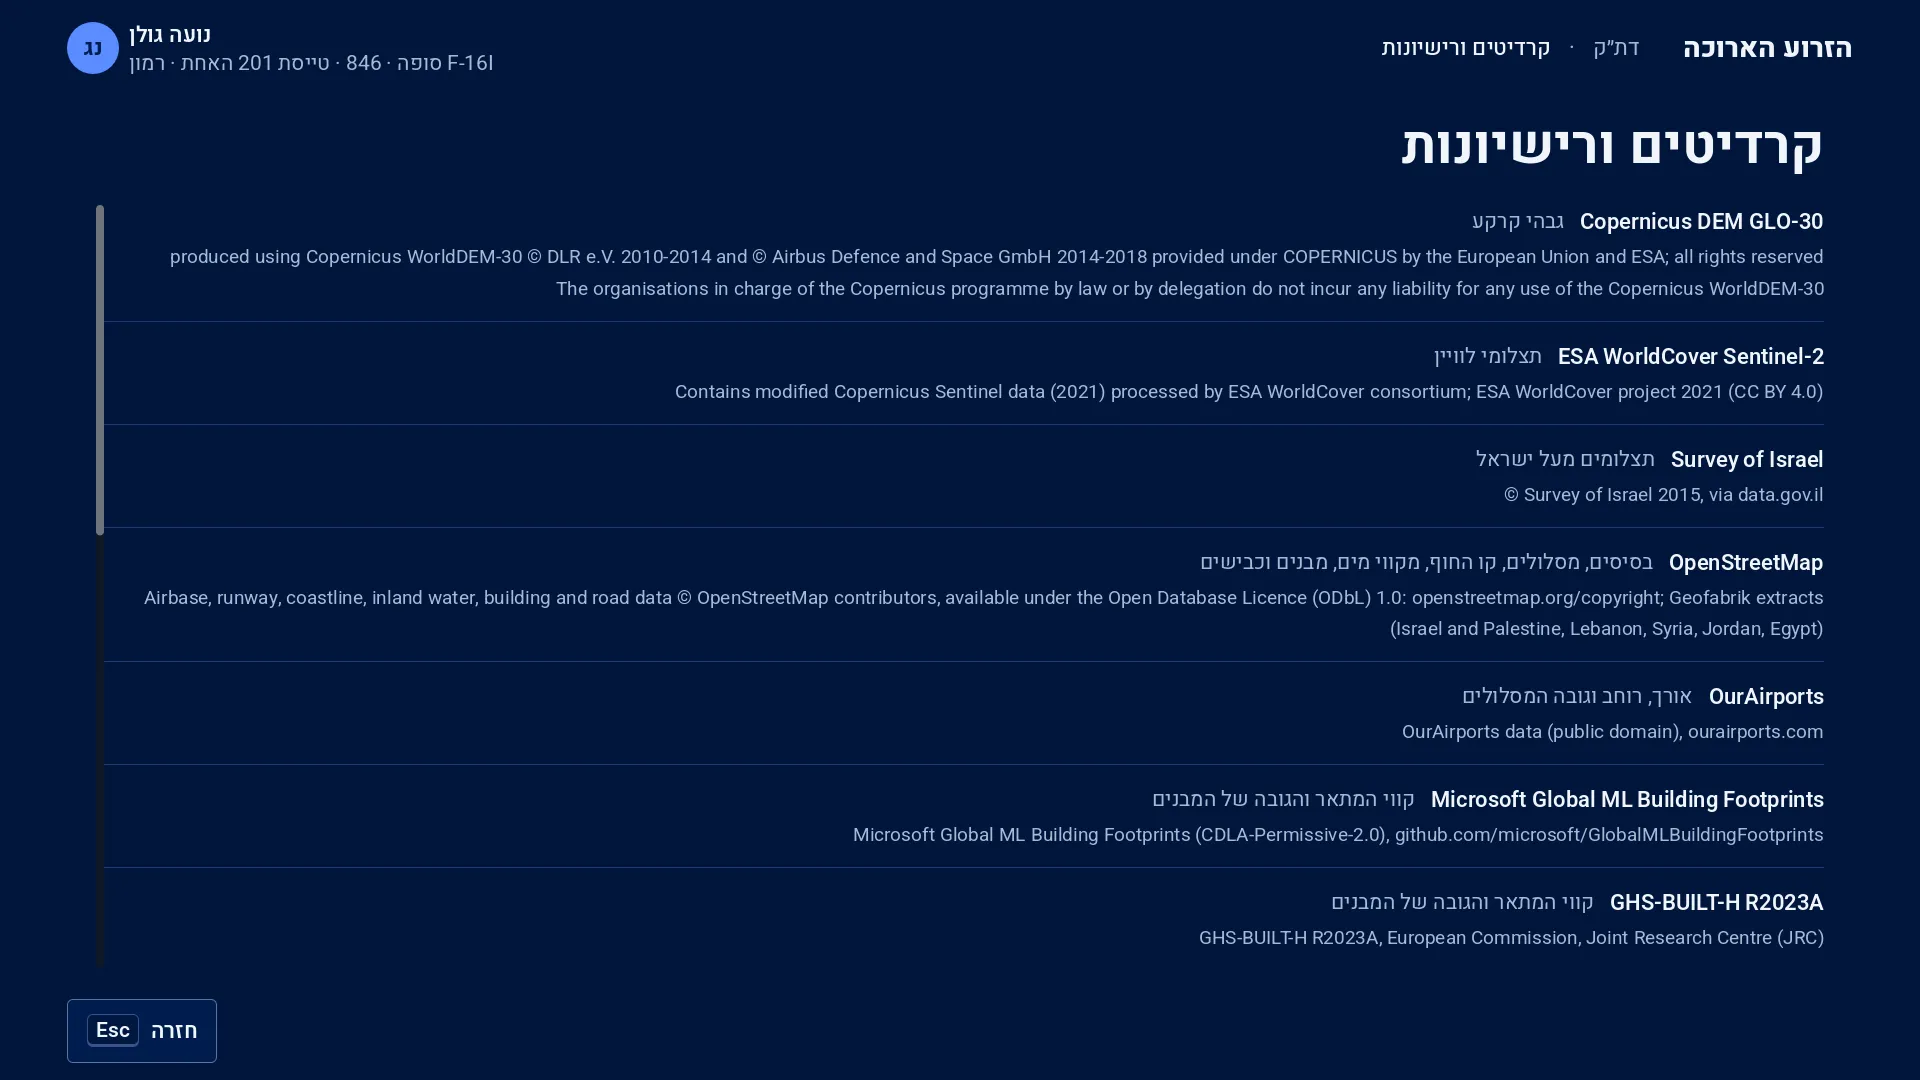
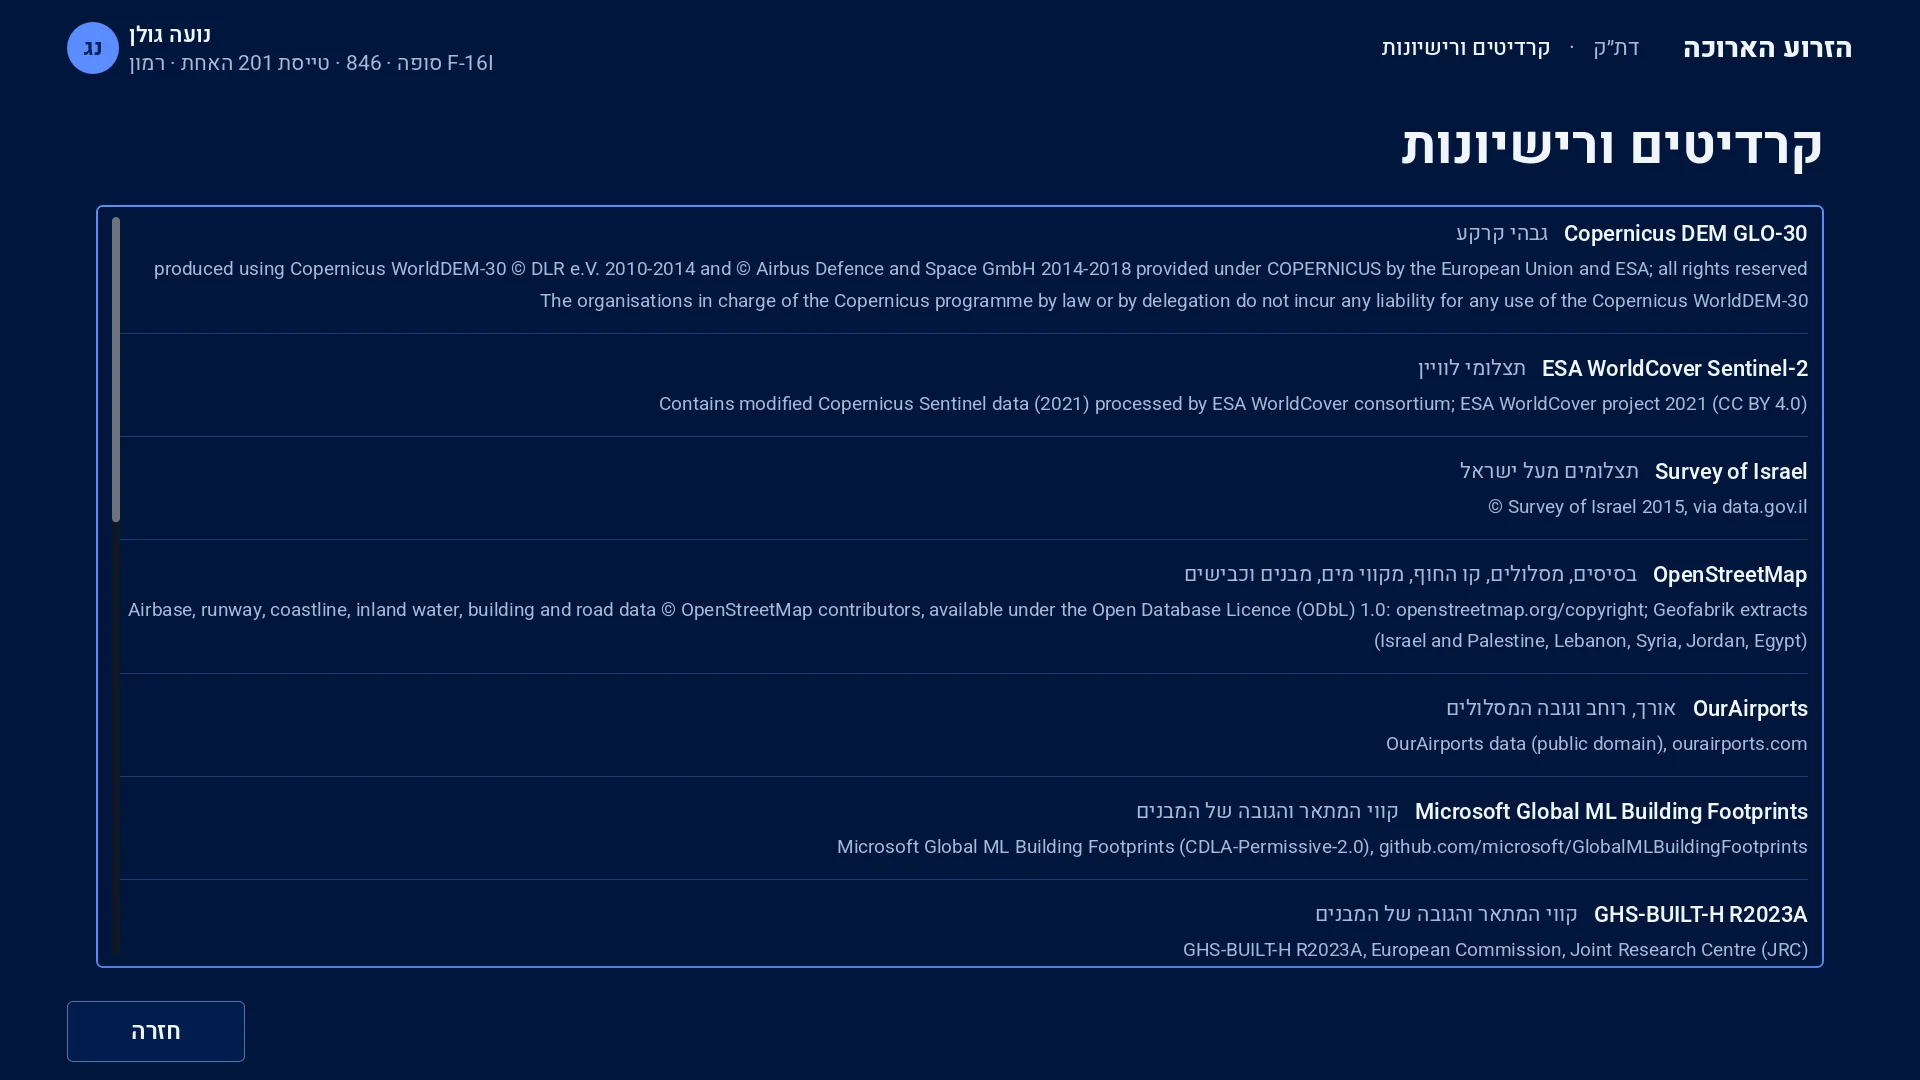
Attributions: the focus ring, as the front end's other lists
Moved by keys, the Attributions list (a focusable ScrollContainer) showed no focus ring: Godot draws a
scroll's focus box only with draw_focus_border, and look.gd had no focus style for a scroll. look.gd's new
type variation ListScroll draws the rows' accent ring (the JetRow focus box) round the list, with a
16 / 12 px inset so the text stays inside it (the scroll clips anything drawn outside its rect); the
Credits scroll uses it. The briefing's HowScroll keeps its ring off on purpose; the other lists focus
their rows.

test_front_end: the Credits list's ring is on and has a border. Docs: modern-iaf/docs/front-end.md, its
two Attributions pictures retaken.
Reuse: look.gd's box() and the JetRow ring; nothing new beyond the variation.
Opus review: VERDICT MERGE.

Claude-Session: https://claude.ai/code/session_01HfoaXprFkEdj69GCkKmySt

diff --git a/modern-iaf/docs/front-end.md b/modern-iaf/docs/front-end.md
@@ -31,7 +31,7 @@ The window opens plain in the front end's background colour (#00163C, no Godot s
 | Reset the log | the Pilot screen's Reset: a warning modal, then a second confirm (§3) | ![Reset the log](pictures/front-end/pilot_reset_en.webp) | ![Reset the log, Hebrew](pictures/front-end/pilot_reset_he.webp) |
 | Pilots | the Pilot screen's Change pilot: every pilot with a name, the active one marked Current; New pilot (§3) | ![Pilots](pictures/front-end/pilots_en.webp) | ![Pilots, Hebrew](pictures/front-end/pilots_he.webp) |
 | Pilot log | the Pilot screen → Pilot log: every attempt, newest first, its day as the debrief writes it and the time ("2 Nov 2026 · 08:14", "2 בנובמבר 2026 · 08:14"); two filters, a jet and a mission (those flown, "All jets" / "All missions" first; with a jet picked, only its missions; a filter the pilot's log does not hold, kept from another pilot, falls back to All); a row opens its debrief; the footer's Back (Esc) to the Pilot screen | ![Pilot log](pictures/front-end/log_en.webp) | ![Pilot log, Hebrew](pictures/front-end/log_he.webp) |
-| Attributions | the setup wizard's list of sources and licences, the jet models with them; the Hangar's foot opens it ("קרדיטים ורישיונות" in Hebrew); the arrows and Page Up / Down scroll it (Down at its end reaches Back); the footer's Back (Esc) | ![Attributions](pictures/front-end/credits_en.webp) | ![Attributions, Hebrew](pictures/front-end/credits_he.webp) |
+| Attributions | the setup wizard's list of sources and licences, the jet models with them; the Hangar's foot opens it ("קרדיטים ורישיונות" in Hebrew); the arrows and Page Up / Down scroll it (Down at its end reaches Back), and with the focus the list wears the rows' accent ring (look.gd `ListScroll`; none until 2026-11-16); the footer's Back (Esc) | ![Attributions](pictures/front-end/credits_en.webp) | ![Attributions, Hebrew](pictures/front-end/credits_he.webp) |
 | Hangar without data | a fresh install before `./modern-iaf-setup` (no training missions): the card says what is missing and the command (`./modern-iaf-setup`; Windows `.\modern-iaf-setup.ps1`), in place of the training's progress; Fly greyed and out of the focus, the picked jet focused; the F-16s' still pictures (§12) | ![Hangar without data](pictures/front-end/nodata_hangar_en.webp) | ![Hangar without data, Hebrew](pictures/front-end/nodata_hangar_he.webp) |
 | Loadout | Edit on the briefing's Arming summary (§10.1): the jet from beneath with a callout per station, the loadouts (the mission's, the pilot's saved ones), the take-off weight and the stores; Reset to the mission's, Briefing, Fly | ![Loadout](pictures/front-end/loadout_f16i_en.webp) | ![Loadout, Hebrew](pictures/front-end/loadout_f16i_he.webp) |
 | Missions without data | the same note under the title, every section greyed; the Hangar crumb focused | ![Missions without data](pictures/front-end/nodata_missions_en.webp) | ![Missions without data, Hebrew](pictures/front-end/nodata_missions_he.webp) |
